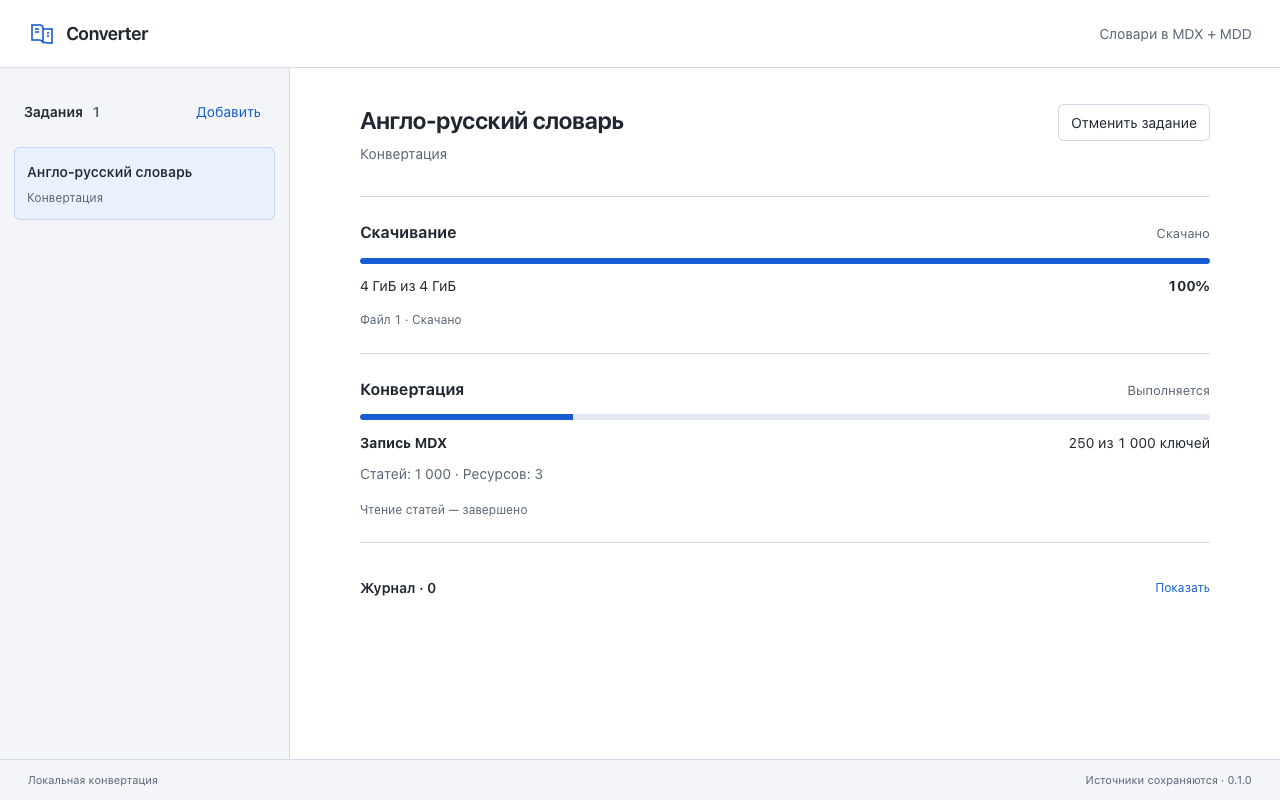
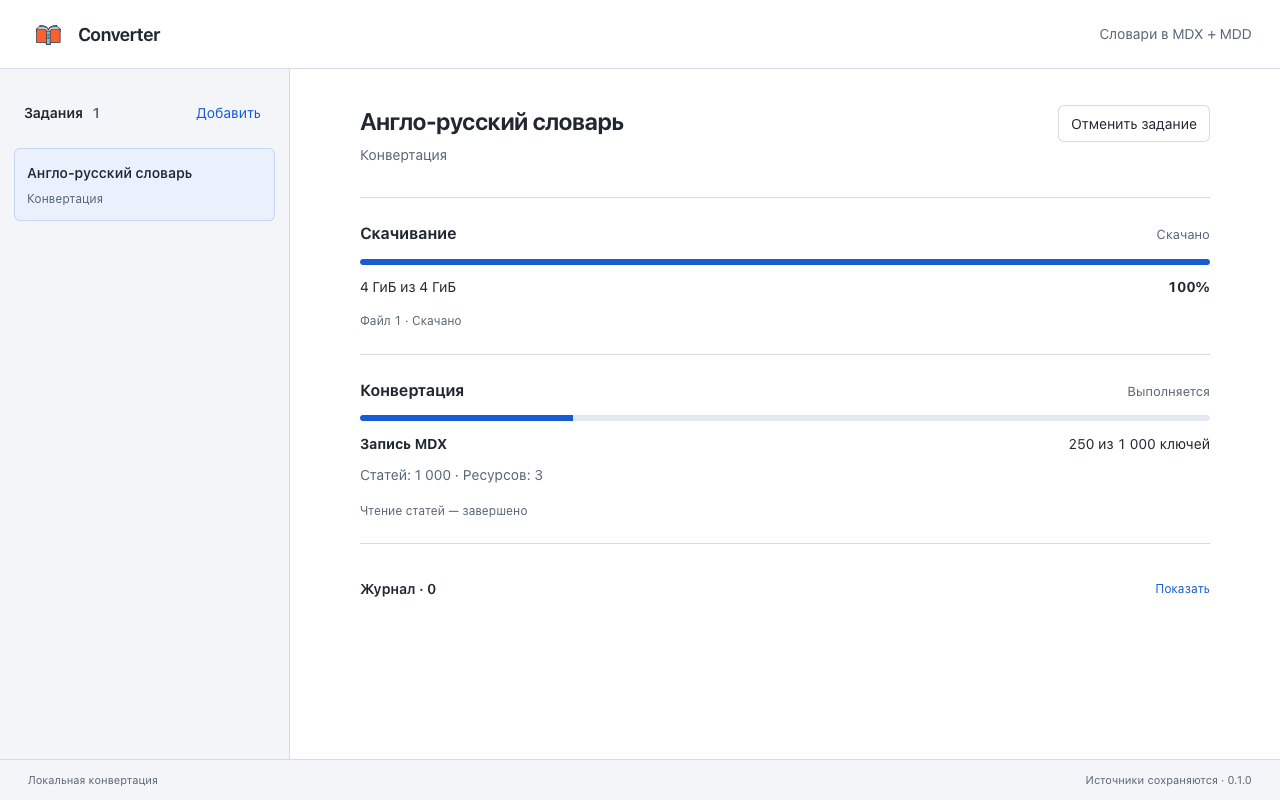
test: сохранить драйвер Windows на время нативного сценария

diff --git a/docs/validation/desktop-native.md b/docs/validation/desktop-native.md
@@ -18,6 +18,21 @@
 
 Синтетический ZIP создаётся средствами разработки; приложение не запускает Python/PHP и не включает их в дистрибутив. Все операции конвертации и HTTP выполняет Rust.
 
+## Release-пакеты, C5
+
+`Desktop packages` [39111278658](https://github.com/darkbearru/converter/actions/runs/39111278658), commit `052d234`, успешно собрал macOS ARM64, macOS Intel и Windows x64 NSIS. Перед Windows-упаковкой прошли отдельные writer conformance, checkpoint recovery и desktop publication tests. Каждый архив содержит build-info с commit, версиями, хешами lock-файлов и SHA-256 артефактов. Сборки не подписаны сертификатом разработчика и не notarized.
+
+Локально проверен release `.app` из `00067e0`:
+
+- Повторная конвертация завершённого URL-задания работает при остановленном HTTP-сервере: используется проверенный локальный источник.
+- Реальный обрыв после 1 МиБ, отмена, повтор, пауза, Cmd-Q, открытие и докачка проверены через интерфейс. После открытия сохраняются 1 МиБ/13%, запрос содержит `Range: bytes=1048576-` и `If-Range: "fixture-v1"`. После разрешения ответа — 60 002 статьи, 60 002 ключа, 3 ресурса, оба прогресса 100%.
+- Отмена немедленно отображается и у задания, и у файла; подтверждённый префикс остаётся. Старое некорректное сохранённое состояние Cancelled/Downloading нормализуется при открытии. Обе ошибки сначала воспроизведены регрессионными тестами; app suite 18/18.
[1 lines of base64/hex data omitted]
+
+Выбранный пользователем корневой `book.svg` подключён к заголовку и desktop-иконкам в `5908a86`. Его актуальные снимки проверены в Chromium/WebKit на 1280×800 и 390×844; переполнения по горизонтали нет. Происхождение PNG встроено в сами файлы и описано в `src-tauri/icons/ORIGIN.md`.
+
 ## Границы подтверждённого покрытия
 
-Это проверка реального Tauri/WebKit приложения на macOS. Release-пакет, Intel-сборка, Windows NSIS и установка без WebView2 проверяются отдельно в C5. Браузерный harness не является нативной проверкой. Подпись, notarization, iOS/Android и акустическое измерение воспроизведения не выполнялись.
+Это проверка реального Tauri/WebKit приложения на macOS. Intel-пакет собран на Intel runner, но интерактивно не запускался. NSIS успешно установлен в кириллическую папку GitHub Windows runner с уже установленным WebView2; нативный WebDriver-сценарий проверяется отдельным workflow `windows-native.yml`. Браузерный harness не является нативной проверкой.
+
+Отдельная чистая Windows VM без WebView2 и сети в этой среде недоступна. Поэтому установка встроенного offline runtime, ручные Windows file-picker/export и открытие словаря в Windows-ридере остаются непроверенными. Протокол такой проверки приведён в `docs/build/windows.md`; наличие `offlineInstaller` не считается её выполнением. Подпись, notarization, iOS/Android и акустическое измерение воспроизведения не выполнялись.
